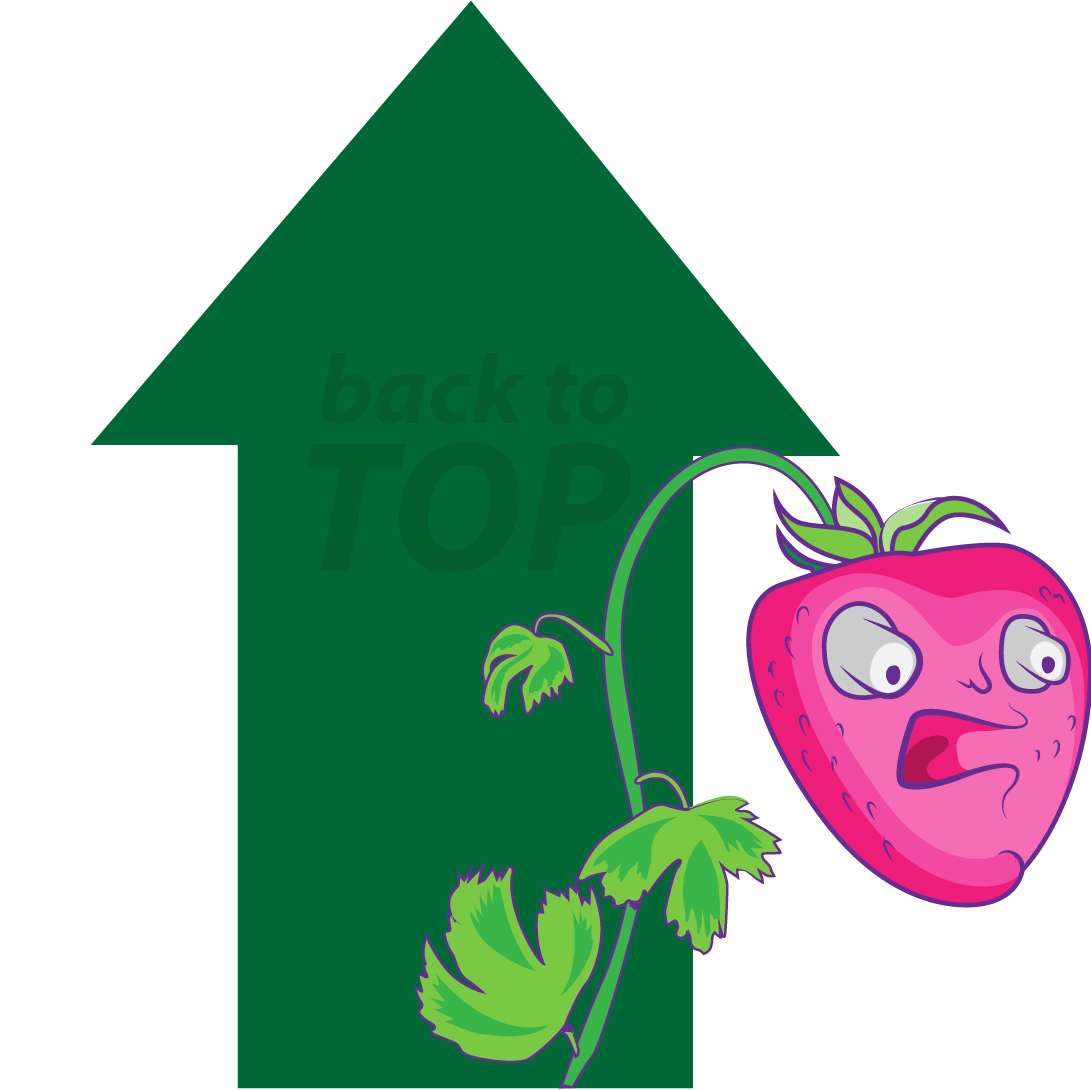
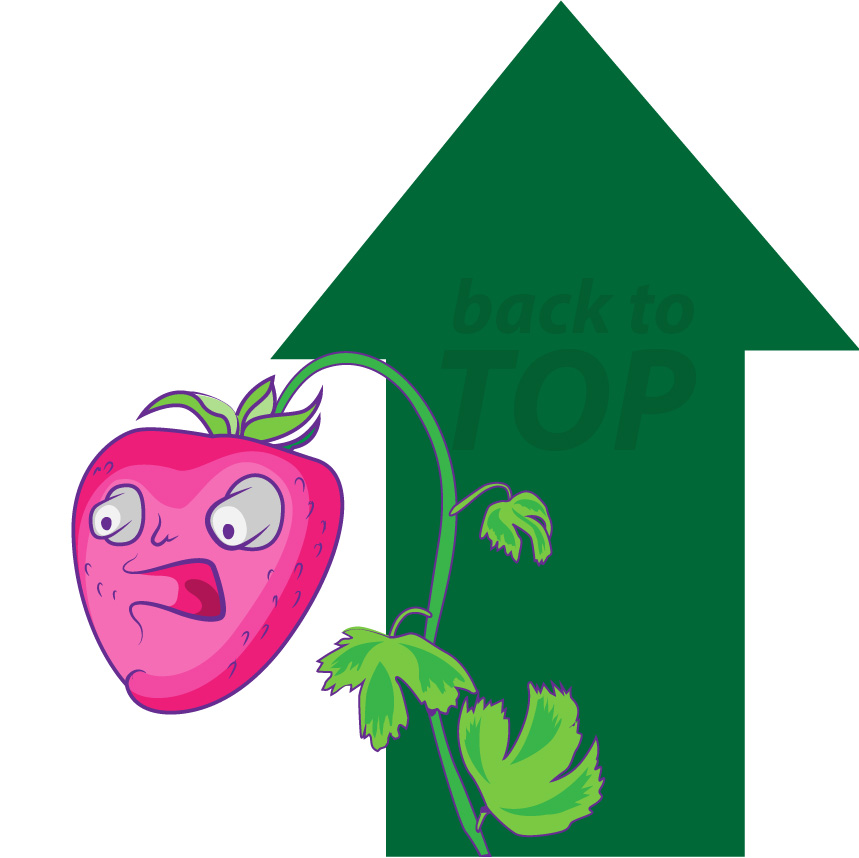
I changed the text and the buttons in the html

diff --git a/projects/Cherry up/cherry_up.html b/projects/Cherry up/cherry_up.html
@@ -49,7 +49,7 @@
 
                             <!--put your categories here. The font size is defined in the css -->
                             <p class="project-category" align="justify" >
-                                Calligraphy - Graphic Design - Typography
+                                Character Design - Graphic Design - Illustration
                             </p>
                             <!--second separator line-->
                             <hr width="100%">
@@ -107,7 +107,7 @@
                 <div class="col-md-1 col-md-offset-11 hidden-sm hidden-xs"   >
                     <!--this call the scroll to top javascript imported in the <head></head>-->
                     <a href="#top">
-                        <img src="../TOP-ARROW.gif"  class="img-responsive" />
+                        <img src="cherry.jpg"  class="img-responsive" />
                     </a>
                 </div>
             </div>

diff --git a/projects/Tee/tee.html b/projects/Tee/tee.html
@@ -51,7 +51,7 @@
 
                             <!--put your categories here. The font size is defined in the css -->
                             <p class="project-category" align="justify" >
-                                Calligraphy - Graphic Design - Typography
+                                Character Design - Graphic Design - Illustration
                             </p>
                             <!--second separator line-->
                             <hr width="100%">
@@ -139,7 +139,7 @@
                 <div class="col-md-1 col-md-offset-11 hidden-sm hidden-xs"   >
                     <!--this call the scroll to top javascript imported in the <head></head>-->
                     <a href="#top">
-                        <img src="../TOP-ARROW.gif"  class="img-responsive" />
+                        <img src="bird_b.jpg"  class="img-responsive" />
                     </a>
                 </div>
             </div>

diff --git a/projects/GM Super Hero/gm_super_hero.html b/projects/GM Super Hero/gm_super_hero.html
@@ -50,7 +50,7 @@
 
                             <!--put your categories here. The font size is defined in the css -->
                             <p class="project-category" align="justify" >
-                                Calligraphy - Graphic Design - Typography
+                                Cartooning - Character Design - Illustration
                             </p>
                             <!--second separator line-->
                             <hr width="100%">
@@ -96,7 +96,7 @@
                 <div class="col-md-1 col-md-offset-11 hidden-sm hidden-xs"   >
                     <!--this call the scroll to top javascript imported in the <head></head>-->
                     <a href="#top">
-                        <img src="../TOP-ARROW.gif"  class="img-responsive" />
+                        <img src="strawberry.jpg"  class="img-responsive" />
                     </a>
                 </div>
             </div>

diff --git a/projects/Bang bang/bang_bang.html b/projects/Bang bang/bang_bang.html
@@ -48,7 +48,7 @@
 
                             <!--put your categories here. The font size is defined in the css -->
                             <p class="project-category" align="justify" >
-                                Calligraphy - Graphic Design - Typography
+                                Illustration - Graphic Design - Pattern Design
                             </p>
                             <!--second separator line-->
                             <hr width="100%">
@@ -118,7 +118,7 @@
                 <div class="col-md-1 col-md-offset-11 hidden-sm hidden-xs"   >
                     <!--this call the scroll to top javascript imported in the <head></head>-->
                     <a href="#top">
-                        <img src="../TOP-ARROW.gif"  class="img-responsive" />
+                        <img src="deer.jpg"  class="img-responsive" />
                     </a>
                 </div>
             </div>

diff --git a/projects/Spaceless C/spaceless_c.html b/projects/Spaceless C/spaceless_c.html
@@ -51,7 +51,7 @@
 
                             <!--put your categories here. The font size is defined in the css -->
                             <p class="project-category" align="justify" >
-                                Calligraphy - Graphic Design - Typography
+                                Illustration - Graphic Design - Typography
                             </p>
                             <!--second separator line-->
                             <hr width="100%">
@@ -208,7 +208,7 @@
                 <div class="col-md-1 col-md-offset-11 hidden-sm hidden-xs"   >
                     <!--this call the scroll to top javascript imported in the <head></head>-->
                     <a href="#top">
-                        <img src="../TOP-ARROW.gif"  class="img-responsive" />
+                        <img src="star.jpg"  class="img-responsive" />
                     </a>
                 </div>
             </div>

diff --git a/projects/Koja/koja.html b/projects/Koja/koja.html
@@ -50,7 +50,7 @@
 
                             <!--put your categories here. The font size is defined in the css -->
                             <p class="project-category" align="justify" >
-                                Calligraphy - Graphic Design - Typography
+                                Illustration - Graphic Design - Music
                             </p>
                             <!--second separator line-->
                             <hr width="100%">
@@ -116,7 +116,7 @@
                 <div class="col-md-1 col-md-offset-11 hidden-sm hidden-xs"   >
                     <!--this call the scroll to top javascript imported in the <head></head>-->
                     <a href="#top">
-                        <img src="../TOP-ARROW.gif"  class="img-responsive" />
+                        <img src="chicken.jpg"  class="img-responsive" />
                     </a>
                 </div>
             </div>

diff --git a/projects/Sweeet/sweeet.html b/projects/Sweeet/sweeet.html
@@ -49,7 +49,7 @@
 
                             <!--put your categories here. The font size is defined in the css -->
                             <p class="project-category" align="justify" >
-                                Calligraphy - Graphic Design - Typography
+                                Illustration - Character Design - Drawing
                             </p>
                             <!--second separator line-->
                             <hr width="100%">
@@ -129,7 +129,7 @@
                 <div class="col-md-1 col-md-offset-11 hidden-sm hidden-xs"   >
                     <!--this call the scroll to top javascript imported in the <head></head>-->
                     <a href="#top">
-                        <img src="../TOP-ARROW.gif"  class="img-responsive" />
+                        <img src="bee.jpg"  class="img-responsive" />
                     </a>
                 </div>
             </div>

diff --git a/projects/Fish and chips/fish_and_chips.html b/projects/Fish and chips/fish_and_chips.html
@@ -50,7 +50,7 @@
 
                             <!--put your categories here. The font size is defined in the css -->
                             <p class="project-category" align="justify" >
-                                Calligraphy - Graphic Design - Typography
+                                Illustration - Graphic Design
                             </p>
                             <!--second separator line-->
                             <hr width="100%">
@@ -115,7 +115,7 @@
                 <div class="col-md-1 col-md-offset-11 hidden-sm hidden-xs"   >
                     <!--this call the scroll to top javascript imported in the <head></head>-->
                     <a href="#top">
-                        <img src="../TOP-ARROW.gif"  class="img-responsive" />
+                        <img src="ancor.jpg"  class="img-responsive" />
                     </a>
                 </div>
             </div>

diff --git a/projects/Fals cognition/fals_cognition.html b/projects/Fals cognition/fals_cognition.html
@@ -185,7 +185,7 @@
                     <!--this call the scroll to top javascript imported in the <head></head>-->
                     <a href="#top">
                         <!--put your image here-->
-                        <img src="../TOP-ARROW.gif"  class="img-responsive" />
+                        <img src="packman.jpg"  class="img-responsive" />
                     </a>
                 </div>
             </div>
